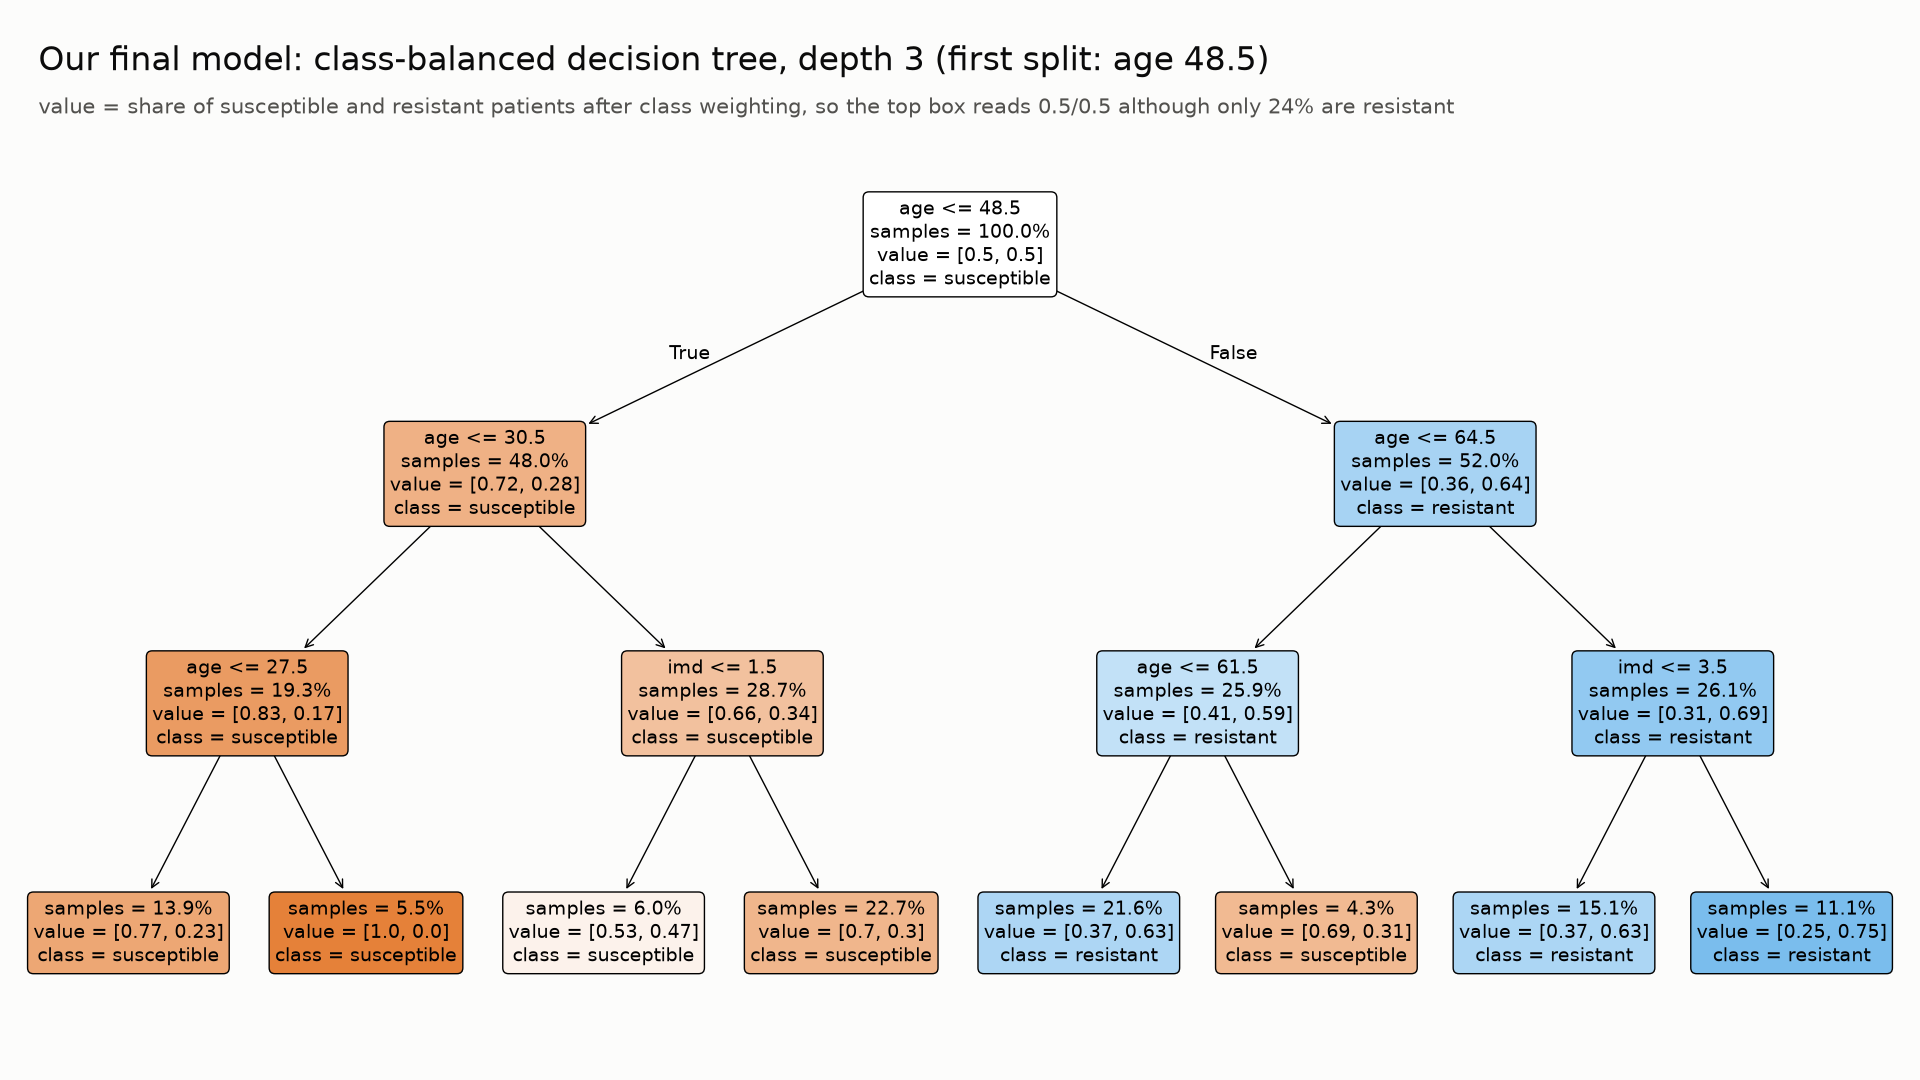
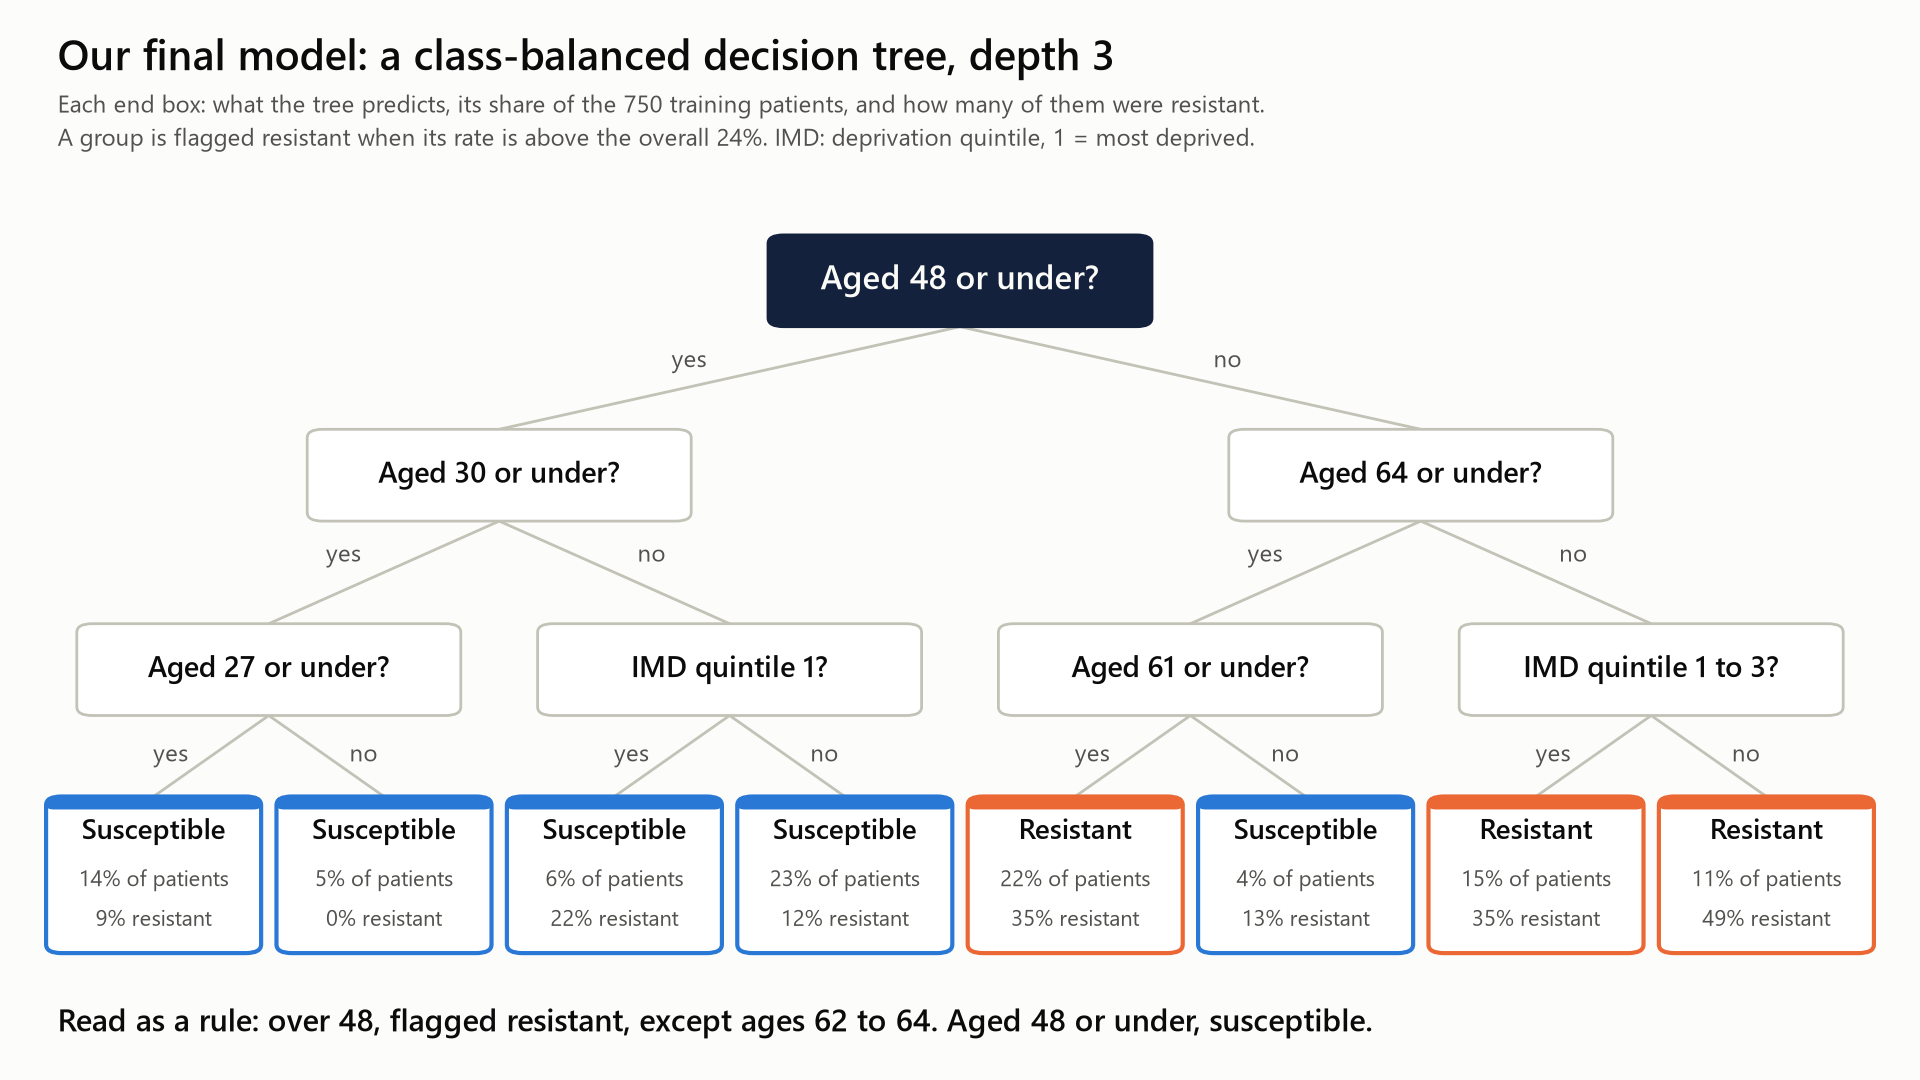
video: plain-language Q6 and Q7 figures, cut the Q2 lscpu line, retime storyboard

diff --git a/video/script.md b/video/script.md
@@ -3,8 +3,8 @@
 Draft narration, updated by `/script` after each work session. Budgets are at 140 words per minute.
 Mark finished lines with `<!-- locked -->` so `/script` leaves them alone.
 
-**Status 29 Oct (D):** timing pass done. The spoken total is about 675 words, about 4:49 at 140 words
-per minute, after a plain-language pass on Q4, Q6 and Q7. It was 840 words, about 6:00. Segments were cut down to their main points, and what was
+**Status 29 Oct (D):** timing pass done. The spoken total is about 662 words, about 4:43 at 140 words
+per minute, after a plain-language pass on Q4, Q6 and Q7 and cutting the Q2 lscpu sentence. It was 840 words, about 6:00. Segments were cut down to their main points, and what was
 cut is noted under each one. Intro, Q1, Q2, Q8 and the outro are final. Q3 to Q7 owners: check your
 lines, time one read-through against `storyboard.md`, then lock them. One paragraph per line, so the
 cut list in `storyboard.md` can be found by searching.
@@ -36,10 +36,10 @@ Cloud computing means renting computers over the internet, on demand, instead of
 
 ## Q2: What are key data security considerations for cloud computing? (0:35, ~80 words)
 
-Cloud security is shared. UCL keeps the hardware in its own facilities and walls each team's machines off from other teams'. lscpu lists the fixes for Spectre-style bugs that could let one machine spy on another. Access goes only through UCL's JupyterHub with an SSH key, our connections are encrypted, and no passwords or keys go in our public repository. And Condenser isn't certified for sensitive data, so real patient records would need extra safeguards first. <!-- locked -->
-[screen: lscpu "Vulnerabilities" lines — TODO(A): capture before recording; then condenser.arc.ucl.ac.uk/about with "not certified for the secure storage and processing of sensitive data" highlighted]
+Cloud security is shared. UCL keeps the hardware in its own facilities and walls each team's machines off from other teams'. Access goes only through UCL's JupyterHub with an SSH key, our connections are encrypted, and no passwords or keys go in our public repository. And Condenser isn't certified for sensitive data, so real patient records would need extra safeguards first. <!-- locked -->
+[screen: condenser.arc.ucl.ac.uk/about with "not certified for the secure storage and processing of sensitive data" highlighted]
 <!-- src: condenser.arc.ucl.ac.uk/about, checked 29 Oct: "All hardware resides in UCL facilities"; "Condenser is not certified for the secure storage and processing of sensitive data" (it adds that a secure platform can be built on it after consulting UCL's Information Governance Advisory Service). Each tenancy gets its own namespace and network (same page). README.md section 1 (JupyterHub over https, then ssh) -->
-<!-- lscpu sentence: Bobby confirms the "Vulnerabilities" lines say "Mitigation" or "Not affected". If any say "Vulnerable", cut the sentence (it is first on the cut list) -->
+<!-- cut by D, 29 Oct, after an outside review: lscpu shows the patches in our VM's own kernel, which says little about how UCL secures the shared hardware. It was also on the cut list and saves about 6 s -->
 <!-- left out for time: encryption at rest (Condenser doesn't say); Condenser's terms say it "should not be treated as the sole repository for your data" (condenser.arc.ucl.ac.uk/terms_and_conditions) -->
 <!-- drafted by A (25 Oct) and James (29 Oct); final by D, 29 Oct, after review: "our connections" instead of "everything", "extra safeguards" instead of "shouldn't go there" -->
 
@@ -69,13 +69,13 @@ Real patient records are sensitive health data, tightly protected by UK GDPR, an
 ## Q6: What is our final tree model, and why is it the most optimal? (0:45, ~105 words)
 
 Only about a quarter of patients are resistant, so plain accuracy is misleading: calling everyone safe scores 76% but misses every resistant patient. So we weighted resistant cases more heavily and ranked models on balanced accuracy, which gives both groups equal weight.
-[screen: outputs/balanced_accuracy_vs_depth_age_imd.png]
+[screen: video/q6_model_comparison.png, or the deck slide with it and the score table]
 
-Random forests scored slightly higher, but that's two hundred trees voting, which you can't read like a single tree. Our depth-3 tree scored best of the single trees, a doctor can read it, and deeper trees overfit.
+Random forests scored higher, but that's two hundred trees voting, which you can't read like a single tree. Our depth-3 tree scored best of the single trees in cross-validation, a doctor can read it, and deeper trees overfit.
 [screen: video/q6_final_tree_readable.png]
 
-Older patients are most at risk: resistance is 8% at ages 20 to 40, but 41% over 70. No other factor we tested beat random noise.
-[screen: outputs/risk_factors_vs_noise.png, left panel]
+Older patients are most at risk: resistance is 8% at ages 20 to 40, but 41% over 70. No other factor beat random noise in both tests.
+[screen: deck slide with resistance by age group and video/q6_risk_factors_vs_noise.png]
 <!-- src: outputs/run_summary_age_imd.txt, model_comparison.csv, tree_balanced_depth3_age_imd.txt (laptop run; the VM run on 27 Oct gave the same numbers) -->
 <!-- 76%: test accuracy of the trees that flag nobody (model_comparison.csv, decision_tree depth 1-3: 0.76); 24.1% resistant -->
 <!-- two hundred trees: RandomForestClassifier(n_estimators=200) in src/amr_trees.py -->
@@ -83,19 +83,23 @@ Older patients are most at risk: resistance is 8% at ages 20 to 40, but 41% over
 <!-- test: tree balanced acc 0.622, recall 0.650, AUC 0.685; forest balanced acc 0.675, recall 0.733, AUC 0.718 -->
 <!-- 8% and 41%: resistance at ages 20-40 (8.4%) and 71-79 (40.7%), notes/2026-10-29-model-checks.md -->
 <!-- "no other factor beat random noise": outputs/risk_factors_summary.txt. Sex, surgery in the past year, deprivation, ethnicity, NHS trust and ICD chapter each fail at least one of the two tests; age scores 0.71, where 95% of its shuffled copies stay below 0.54. Reasoning: notes/2026-10-29-risk-factors.md -->
-<!-- note: the depth-3 tree's 61.5-64.5 branch predicts susceptible, so "above 48 resistant" is a simplification; the first split (age 48.5) is in the tree screen's title -->
+<!-- note: the depth-3 tree's 61.5-64.5 branch predicts susceptible, so "above 48 resistant" is a simplification; the tree screen now spells out the rule at the bottom -->
 <!-- note: feature_importance_age_imd.png gives imd 0.09 (impurity importance), and that measure favours many-valued columns: in the noise-check forest a continuous column of random numbers gets 0.16 against imd's 0.07, while permutation importance puts imd (0.004) level with the noise columns (outputs/risk_factors_forest_importance.csv), so it isn't evidence that deprivation matters -->
 <!-- shortened by D, 29 Oct, after review: depth-3 reason is its score; who-is-at-risk figures and the noise check added -->
 <!-- plainer wording by D, 29 Oct, after an outside review flagged "misleads" and "which no one can follow"; first cut-list line ("We compared tree types and depths.") applied to stay under 5:00 -->
+<!-- "in cross-validation" added (D, 29 Oct, after review): on the test set the depth-3 tree (0.622) scores below depths 1, 2 and 5 (0.651, 0.651, 0.653) -->
+<!-- "in both tests" added (D, 29 Oct, after review): the slide's chart shows the diagnosis tree dot just past its band, so "no other factor beat noise" needed the both-models rule said out loud -->
+<!-- "higher", not "slightly higher" (D, 29 Oct, after an outside review): 0.670 vs 0.659 in cross-validation, but 0.675 vs 0.622 on the 250 held-back test patients. The slide shows both -->
 <!-- note: "beat random noise" means beating its shuffled copies in both the regression and the tree; the diagnosis (ICD chapter) tree alone scores 0.524 against 0.519, but its regression doesn't (outputs/risk_factors_summary.txt) -->
 
 ## Q7: What other modelling techniques could we use, and why? (0:25, ~60 words)
 
-Logistic regression suits this data. It fits risk rising smoothly with age, where a tree can only make steps, and it gives odds ratios, which clinicians already use. We tried it and it matched our tree, with the odds of resistance rising by more than half per decade of age. We didn't need a neural network for a thousand patients and one real risk factor.
-[screen: outputs/risk_factors_adjusted_odds_ratios.png]
-<!-- src: "matched our tree": class-weighted logistic regression on age and imd, same split and folds, CV balanced accuracy 0.660 vs the tree's 0.659 (notes/2026-10-29-model-checks.md). "More than half per decade": odds ratio per 10 years of age 1.54 in that fit, and 1.59 (1.44 to 1.76) adjusted for the other patient factors (outputs/risk_factors_adjusted_odds_ratios.csv) -->
+Logistic regression suits this data. It fits risk rising smoothly with age, where a tree can only make steps, and it gives odds ratios, which clinicians already use. We tried it and it matched our tree, with the odds of resistance rising by more than half per decade of age. We didn't need a neural network for a thousand patients and one clear risk factor.
+[screen: video/q7_odds_ratios.png, or the deck slide with it and the two scores]
+<!-- src: "matched our tree": class-weighted logistic regression on age and imd, same split and folds, CV balanced accuracy 0.660 vs the tree's 0.659 (notes/2026-10-29-model-checks.md). "More than half per decade": odds ratio per 10 years of age 1.54 in that fit, and 1.59 (1.44 to 1.76) adjusted for sex, surgery, deprivation and ethnicity (outputs/risk_factors_adjusted_odds_ratios.csv) -->
 <!-- updated by D with C's checks, 29 Oct; C: check before recording -->
 <!-- plainer wording by D, 29 Oct, after an outside review flagged "not sharp cut-offs" and "overkill" -->
+<!-- "clear" instead of "real" (D, 29 Oct, after review): in the odds-ratio plot deprivation quintile 3 (0.60, 0.36 to 0.97) clears 1, with no trend across quintiles (notes/2026-10-29-risk-factors.md); the slide says so -->
 
 ## Q8: How did we work as a team? (1:00, ~140 words)
 

diff --git a/video/storyboard.md b/video/storyboard.md
@@ -1,7 +1,7 @@
 # Storyboard and recording plan
 
-Target length 4:45 to 4:55, hard limit 5:00, saved as MP4. Narration is in `script.md`: about 675
-spoken words, about 4:49 at 140 words per minute. Each segment is recorded as its own clip by its owner,
+Target length 4:45 to 4:55, hard limit 5:00, saved as MP4. Narration is in `script.md`: about 662
+spoken words, about 4:43 at 140 words per minute. Each segment is recorded as its own clip by its owner,
 and Eric (D) edits.
 
 ## Storyboard
@@ -12,30 +12,28 @@ Times are from the word counts at 140 words per minute.
 |---|---|---|---|---|---|
 | 1 | Intro | Eric | Title card: "UCLuster Too", CIUK 2026 UCL challenge, Ada Ge, Bobby Ta, Eric Huang, James Loke | 0:00 | 0:13 |
 | 2 | Q1 Cloud compute | Eric | VM terminal: `lscpu` with the "Hypervisor vendor" line highlighted | 0:13 | 0:21 |
-| 3 | Q2 Data security | Eric | `lscpu` "Vulnerabilities" lines, then condenser.arc.ucl.ac.uk/about with "not certified for the secure storage and processing of sensitive data" highlighted | 0:34 | 0:33 |
-| 4 | Q3 File permissions | Bobby | `ls -l` of the data file before (`-rw-r--r--`) and after (`-rw-------`) | 1:07 | 0:28 |
-| 5 | Q4 Representative data | Ada | `video/q4_our_data_vs_england_wales.png` | 1:35 | 0:32 |
-| 6 | Q5 Synthetic data | Ada | Text slide: "Synthetic data is made to mimic real data, with no real people in it" | 2:07 | 0:22 |
-| 7 | Q6 Final model | James | `outputs/balanced_accuracy_vs_depth_age_imd.png`, then `video/q6_final_tree_readable.png` from "Random forests", then the left panel of `outputs/risk_factors_vs_noise.png` from "Older patients" | 2:29 | 0:45 |
-| 8 | Q7 Other techniques | Ada | `outputs/risk_factors_adjusted_odds_ratios.png` | 3:14 | 0:28 |
-| 9 | Q8 Teamwork | Eric | `PLAN.md` roles table on GitHub, `video/teamwork-log.md`, then the repo's commit history | 3:42 | 0:57 |
-| 10 | Outro | Eric | Closing card: team name, the four names, github.com/adellama75/cluster-challenge-ucl | 4:39 | 0:10 |
-| | **Total** | | | | **4:49** |
+| 3 | Q2 Data security | Eric | condenser.arc.ucl.ac.uk/about with "not certified for the secure storage and processing of sensitive data" highlighted | 0:34 | 0:26 |
+| 4 | Q3 File permissions | Bobby | `ls -l` of the data file before (`-rw-r--r--`) and after (`-rw-------`) | 1:00 | 0:28 |
+| 5 | Q4 Representative data | Ada | `video/q4_our_data_vs_england_wales.png` | 1:28 | 0:32 |
+| 6 | Q5 Synthetic data | Ada | Text slide: "Synthetic data is made to mimic real data, with no real people in it" | 2:00 | 0:22 |
+| 7 | Q6 Final model | James | `video/q6_model_comparison.png` with the score table, then `video/q6_final_tree_readable.png` from "Random forests", then resistance by age and `video/q6_risk_factors_vs_noise.png` from "Older patients" (one deck slide each) | 2:22 | 0:46 |
+| 8 | Q7 Other techniques | Ada | `video/q7_odds_ratios.png` with the two scores | 3:08 | 0:28 |
+| 9 | Q8 Teamwork | Eric | `PLAN.md` roles table on GitHub, `video/teamwork-log.md`, then the repo's commit history | 3:36 | 0:57 |
+| 10 | Outro | Eric | Closing card: team name, the four names, github.com/adellama75/cluster-challenge-ucl | 4:33 | 0:10 |
+| | **Total** | | | | **4:43** |
 
-Every segment also has a slide in the team deck: 14 slides in storyboard order, with each segment's
+Every segment also has a slide in the team deck: 13 slides in storyboard order, with each segment's
 narration in its speaker notes. Record over the slide, or over the screens above where you have
 them. Q4 and the Q6 tree are full-frame figures.
 
 Numbers and words such as "76%" or "chmod 600" take longer to say than to count, and each cut
-between clips adds a moment, so expect the edit to come out nearer 4:58. If Bobby can't record Q3,
+between clips adds a moment, so expect the edit to come out nearer 4:52. If Bobby can't record Q3,
 Eric reads it over Bobby's screen recording (guide A allows this).
 
 ## Screens to prepare before recording
 
-- [ ] Q1, Q2: `lscpu` on the VM, "Hypervisor vendor" and the "Vulnerabilities" lines (Bobby). Terminal
-      font at 20 pt or more. Crop out the prompt if it shows the host name or IP. If any
-      Vulnerabilities line says "Vulnerable" rather than "Mitigation" or "Not affected", tell Eric:
-      the lscpu sentence in Q2 is then cut.
+- [ ] Q1: `lscpu` on the VM, "Hypervisor vendor" line (Bobby). Terminal font at 20 pt or more. Crop
+      out the prompt if it shows the host name or IP.
 - [ ] Q2: screenshot of https://condenser.arc.ucl.ac.uk/about at 150% zoom with the sentence above
       highlighted (Eric).
 - [ ] Q3: `cat notes/permissions-before.txt notes/permissions-after.txt` in a large-font terminal, or
@@ -43,9 +41,10 @@ Eric reads it over Bobby's screen recording (guide A allows this).
 - [x] Q4: `video/q4_our_data_vs_england_wales.png`, 1920 × 1080, ready.
 - [x] Title card, Q5 slide and closing card: in the team slide deck (Eric shares the link, or exports
       it as PDF or PowerPoint).
-- [x] Q6: `video/q6_final_tree_readable.png` is the final tree at 1920 × 1080 with large text. The
-      tree in `outputs/` is 3285 px wide, too small to read in a video. The other Q6 and Q7 figures are
-      in `outputs/`. Open each one full screen and crop to the plot.
+- [x] Q6 and Q7: `video/q6_model_comparison.png`, `video/q6_final_tree_readable.png` (the final tree
+      with plain questions, 1920 × 1080), `video/q6_risk_factors_vs_noise.png` and
+      `video/q7_odds_ratios.png`, each with the result the narration names in colour. The deck slides
+      pair them with the scores. The tree in `outputs/` is 3285 px wide, too small to read in a video.
 - [ ] Q8: GitHub pages for `PLAN.md`, the teamwork log and the commit list, at 150% zoom (Eric).
 
 Never on screen: IP addresses, the SSH key or anything in `~/.ssh`, the welcome emails, a JupyterHub
@@ -63,6 +62,7 @@ URL that contains a token, passwords.
 - Settings: 1920 × 1080, notifications off, terminal font 20 pt or more, browser zoom 150%. Use a
   headset or a phone microphone close to your mouth, in a quiet room.
 - Read from `script.md`, and retake a clip rather than editing around a stumble.
+- No background music under the narration.
 
 ## Edit and submit (Friday, by 18:00)
 
@@ -81,9 +81,8 @@ Each cut is a whole sentence or clause, so what's left still reads correctly.
 |---|---|---|
 | Q3 | "Our script's outputs are closed to other users too." | 4 s |
 | Q7 | ", and it gives odds ratios, which clinicians already use" | 4 s |
-| Q2 | "lscpu lists the fixes for Spectre-style bugs that could let one machine spy on another." Drop the `lscpu` Vulnerabilities screen and the slide's lscpu bullet with it | 6 s |
 
-The first cut on the original list (Q6, "We compared tree types and depths.") is already applied in
-`script.md`.
+Two earlier cuts are already applied in `script.md`: Q6 "We compared tree types and depths." and the
+Q2 lscpu sentence.
 
 Don't cut Q8. Teamwork carries 15 marks.
